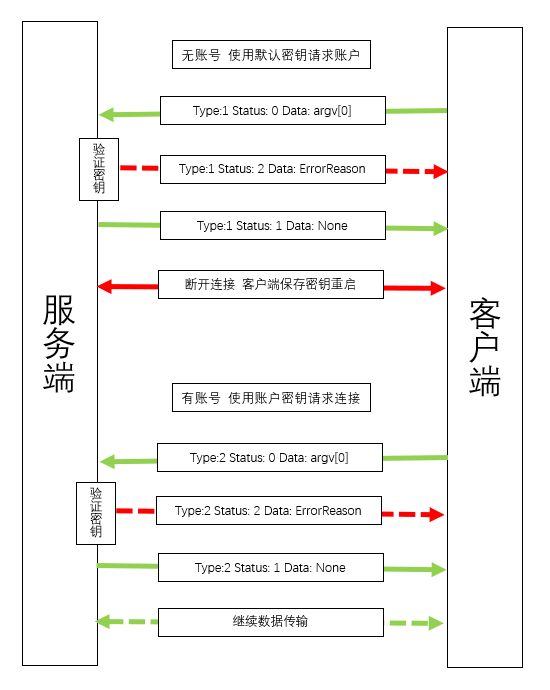
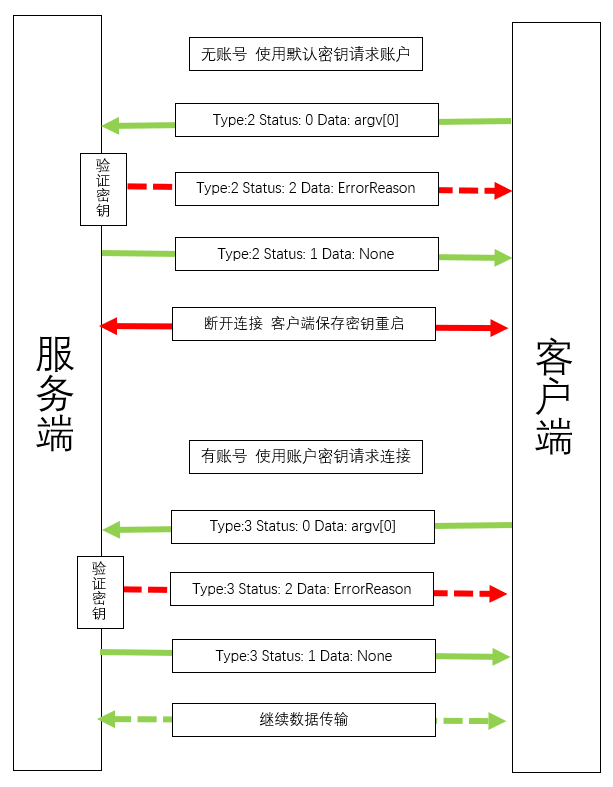
Improve: Improve doc; Refactoring the code...

diff --git a/connect_core/websocket/server.py b/connect_core/websocket/server.py
@@ -80,10 +80,7 @@ class WebsocketServer:
                 msg = await websocket.recv()
                 await self._process_message(msg, websocket, server_id)
 
-        except (
-            websockets.exceptions.ConnectionClosedOK,
-            websockets.exceptions.ConnectionClosedError,
-        ):
+        except websockets.exceptions.ConnectionClosed:
             await self._close_connection(server_id, websocket)
 
     async def _process_message(self, msg: str, websocket, server_id: str) -> None:

diff --git a/doc/websocket.md b/doc/websocket.md
@@ -2,6 +2,7 @@
 
 ```json
 {
+    "s": sID,                   // 数据包编号，确认数据发送正确
     "type": typeID,             // 数据包类型标识符，定义见下文。
     "status": StatusID,         // 当前数据包的状态码，定义见下文。
     "to": {
@@ -22,23 +23,29 @@
 
 ## 数据包类型及状态定义
 
-### [0] Control 数据包
+### [0] Basic 数据包
+
+- `status`:
+  - `[0] Test` - 测试连接。
+  - `[1] Ping` - Ping数据包。
+  - `[2] Pong` - Pong数据包。
+
+### [1] Control 数据包
 
 - `Status`:
   - `[0] Stop` - 请求关闭连接或停止服务。
   - `[1] Reload` - 请求重载服务配置或模块。
   - `[2] Maintenance` - 进入维护状态，部分服务受限。
   - `[3] Resume` - 从维护状态恢复到正常服务。
-  - `[-1] test` - 测试连接。
 
-### [1] Register 数据包
+### [2] Register 数据包
 
 - `Status`:
   - `[0] Register` - 客户端请求注册操作。
   - `[1] FinishRegister` - 服务器确认完成注册。
   - `[2] RegisterError` - 注册失败，提供错误详情。
 
-### [2] Login 数据包
+### [3] Login 数据包
 
 - `Status`:
   - `[0] Login` - 客户端请求登录操作。
@@ -47,7 +54,7 @@
   - `[3] DelLogin` - 服务器有新的登出。
   - `[4] LoginError` - 登录失败，提供错误详情。
 
-### [3] Data 数据包
+### [4] Data 数据包
 
 - `Status`:
   - `[0] Send` - 请求发送数据。
@@ -55,7 +62,7 @@
   - `[2] DataError` - 数据传输失败，提供错误详情。
   - `[3] DataPending` - 数据正在处理，需等待完成。
 
-### [4] File 数据包
+### [5] File 数据包
 
 - `Status`:
   - `[0] Send` - 请求发送文件。
